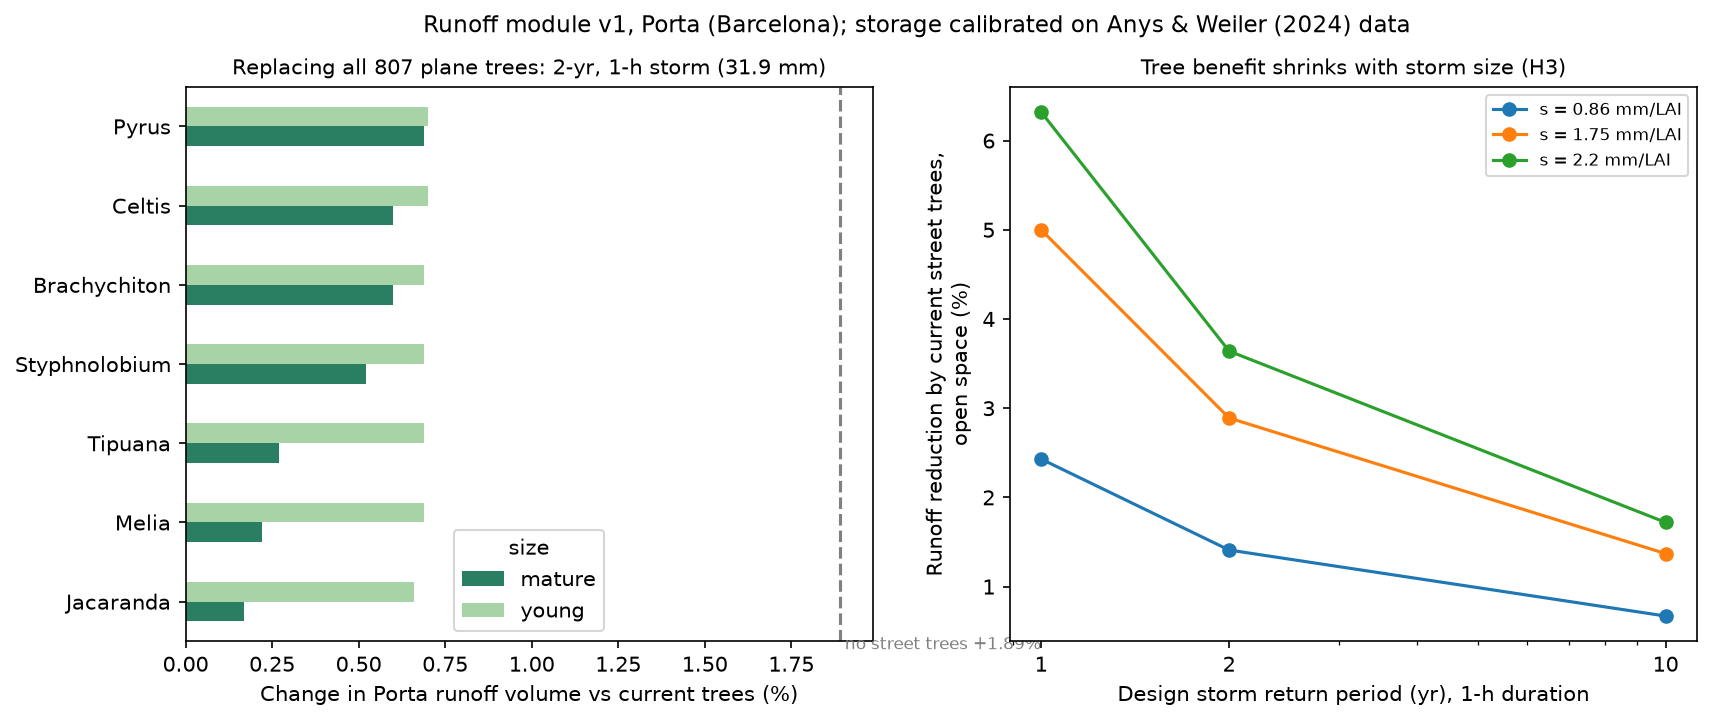
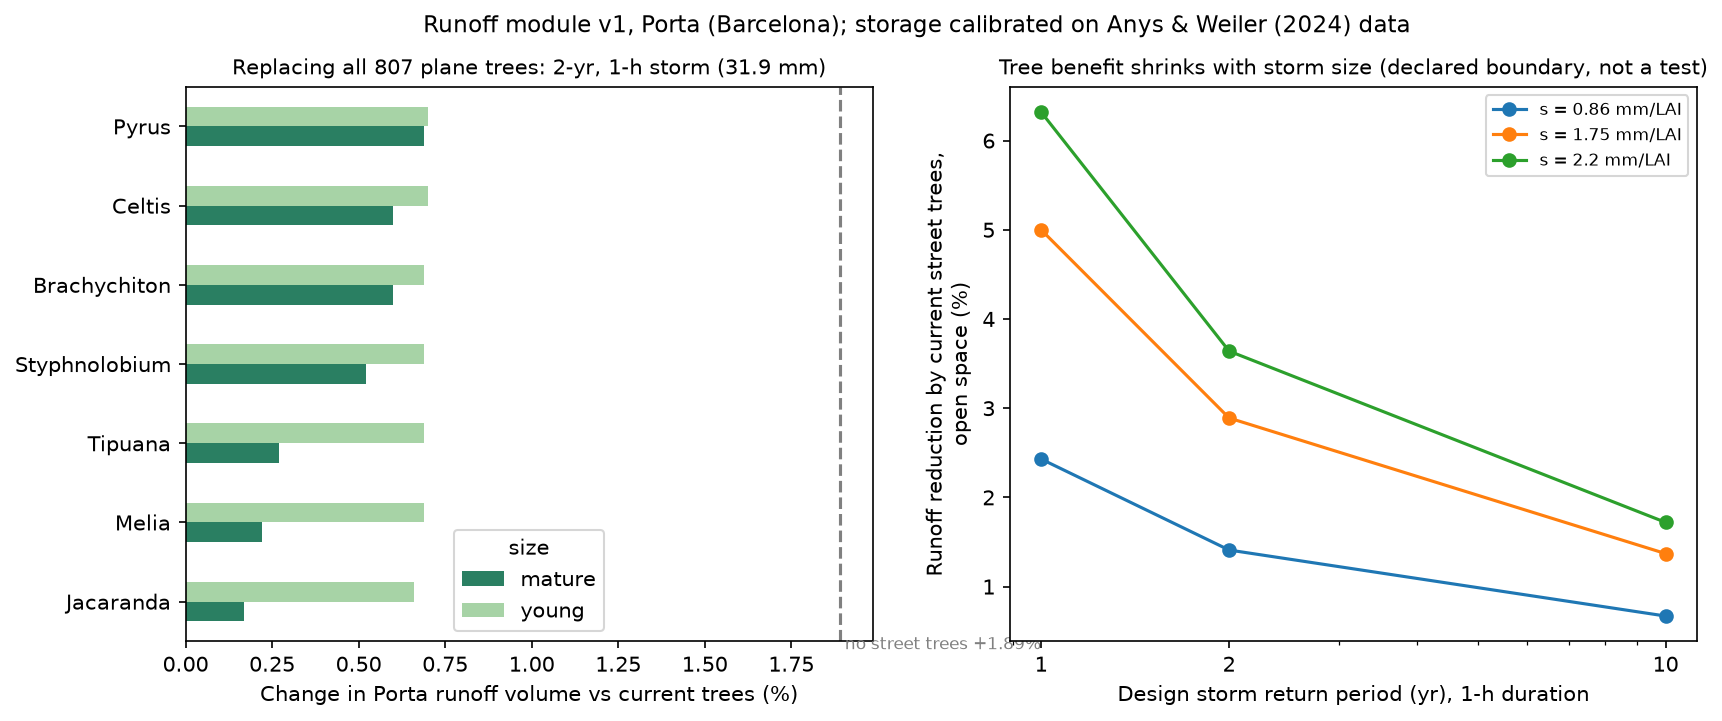
Give slides 4, 14 and 15 their own figures
The three slides that still pointed at a raw plot in notes/figures now
have house-style figures in slides/fig, so the whole deck is one folder
of NN_*.png matching the slide numbers.

Each one references the existing plot relatively (../../notes/figures/)
rather than copying it, so re-running bcn_site_select.py, plot_runoff.py
or plot_tool_v0.py updates the slide too:

- 04_why_porta: the three-panel profile, plus the rule that was fixed
  before the ranking (all three criteria above the 60th percentile,
  non-compensatory), the eligible counts at the three thresholds, the
  ranks among the 72 neighbourhoods with complete data, and why Sant
  Antoni fails the gate despite scoring higher if criteria compensate.
- 14_runoff_result: the two runoff panels, the four numbers with their
  caveats (-1.85% at T=2, the 4%/3.5% benchmark split between Selbig and
  the Coville re-analysis, ~37% lost to young replacements, the
  0.4-4.0% envelope) and the volume-only limit.
- 15_shade_result: the shade trade-off and the winter-sun map, with the
  +16% summer gain, the absence of any winter gain, the one-for-one
  trade in the base run, and the fact that no layout reaches today's
  mature planes.

Also: the runoff plot's right panel was titled "Tree benefit shrinks
with storm size (H3)". H3 was withdrawn yesterday, so the panel now says
"declared boundary, not a test" and the figure is regenerated.

diff --git a/scripts/make_infographics.py b/scripts/make_infographics.py
@@ -634,6 +634,100 @@ def fig_problem():
          "(Porta anomaly); tree master plan via BCNROC, databases/data_inventory_barcelona.md D1 (press figures conflict).")
 
 
+# ---- Slide 4. Why Porta: the screening, not a preference
+def fig_why_porta():
+    """The three-panel profile map (built by bcn_site_select.py) plus the screening rule and the ranks.
+
+    The map is referenced relatively from notes/figures/, so nothing is duplicated."""
+    b = ('<image x="60" y="150" width="1000" height="389" preserveAspectRatio="xMidYMid meet" '
+         'href="../../notes/figures/porta_profile.png"/>')
+    b += t(60, 572, "Pluvial flood hazard  \u00b7  summer surface-heat anomaly  \u00b7  street trees, the 832 planes in green",
+           16, MUTED)
+
+    b += rect(1100, 150, 440, 404, INK, rx=12, op=0.05) + rect(1100, 150, 440, 6, INK, rx=0)
+    b += t(1124, 188, "THE RULE, FIXED FIRST", 16, INK, "bold")
+    b += para(1124, 220, "A neighbourhood qualifies only if flood hazard, surface heat and plane density are "
+                         "all above the city's 60th percentile. Non-compensatory: one strong hazard cannot "
+                         "buy the absence of the other.", 392, 16)[0]
+    yy = 320
+    for lab, val in (("SCREENED", "73 neighbourhoods, 72 with complete data"),
+                     ("ELIGIBLE", "12 at the 50th percentile, 7 at the 60th, 2 at the 70th"),
+                     ("PORTA", "first of the eligible set at every threshold")):
+        b += t(1124, yy, lab, 13, MUTED, "bold")
+        ptxt, hh = para(1124, yy + 24, val, 392, 17)
+        b += ptxt
+        yy += 24 + hh + 10
+    b += para(1124, yy + 4, "#2 overall on the equal-weight score; top 3 in 53% of 2,000 random weightings.",
+              392, 13, fill=MUTED)[0]
+
+    tiles = ((TREE, "832", "plane trees, 994 per km\u00b2 (#15 of 72), inside 2,825 street trees of 53 taxa"),
+             (RAIN, "#13", "flood hazard: share of area with the index \u2265 40 (Barcelona Regional)"),
+             (HEAT, "#11", "surface heat, +1.36 \u00b0C above the city median \u00b7 #12 heat vulnerability, 91% of the area in the top class"),
+             (INK, "7 of 7", "candidate species already grow here: the six the city names, plus Styphnolobium"))
+    for i, (col, big, small) in enumerate(tiles):
+        x = 60 + i * 375
+        b += rect(x, 616, 355, 150, col, rx=12, op=0.08) + rect(x, 616, 355, 6, col, rx=0)
+        b += t(x + 20, 676, big, 38, col, "bold")
+        b += para(x + 20, 706, small, 315, 15, fill=INK)[0]
+
+    b += para(60, 796, "Why not Sant Antoni, which scores higher if you let the criteria compensate: it is #1 for "
+              "flood hazard but #38 for surface heat \u2014 below the city median \u2014 so it fails the both-hazards "
+              "gate. It stays as the flood-dominant contrast site.", 1480, 17, fill=MUTED)[0]
+    save("04_why_porta", "Porta, Nou Barris: both hazards, and the planes to replace",
+         "0.84 km\u00b2 \u00b7 chosen by a rule written before the data was ranked", b,
+         "notes/site_selection.md sections 2-4; scripts/bcn_site_screening.py, bcn_heat_check.py, bcn_site_select.py; "
+         "databases/barcelona/site_selection.csv. Map: notes/figures/porta_profile.png (flood index via the Barcelona "
+         "Resilience Atlas; Landsat 8/9 summer LST anomaly, 31 scenes 2022-2025; arbrat-viari, 1 Oct 2026).")
+
+
+# ---- Slides 14 and 15. The two results, around the plots the modules already produce
+def result_slide(name, title, subtitle, plot, tiles, caveat, source):
+    """A result plot from notes/figures (referenced, not copied) over a row of four numbers."""
+    b = (f'<image x="60" y="150" width="1480" height="520" preserveAspectRatio="xMidYMid meet" '
+         f'href="../../notes/figures/{plot}"/>')
+    for i, (col, big, small) in enumerate(tiles):
+        x = 60 + i * 375
+        b += rect(x, 690, 355, 112, col, rx=12, op=0.08) + rect(x, 690, 355, 6, col, rx=0)
+        b += t(x + 20, 736, big, 30, col, "bold")
+        b += para(x + 20, 762, small, 315, 14, fill=INK)[0]
+    b += para(60, 814, caveat, 1480, 15, fill=MUTED)[0]
+    save(name, title, subtitle, b, source)
+
+
+def fig_runoff_result():
+    result_slide(
+        "14_runoff_result", "First result: the runoff module runs",
+        "Porta, 2-year 1-hour design storm (31.9 mm); canopy storage calibrated on 16 trees and 51 storms in Freiburg",
+        "runoff_results_v1.png",
+        ((RAIN, "\u22121.85%", "runoff from the street trees standing today, at T = 2 (\u22122.9% on open ground, i.e. everything but roofs)"),
+         (TREE, "3.5\u20134%", "the field benchmark: 4% measured by removal (Selbig 2021), 3.5% in the calibrated re-analysis (Coville 2022)"),
+         (WARN, "\u2248 37%", "of that benefit lost during the transition: any young replacement gives about +0.7% runoff"),
+         (INK, "0.4\u20134.0%", "the whole effect across s = 0.86\u20132.2 mm per unit LAI and T = 1\u201310 yr")),
+        "Volume only: no sewer, no routing to outlets, no ponding, no peak flow. The benefit falls from 3.16% at "
+        "T = 1 to 0.90% at T = 10 \u2014 arithmetic, because every crown is full at every design storm, which is why "
+        "H3 was withdrawn on 19 Oct and the shrinking benefit is now stated as a boundary of the method.",
+        "notes/methodology.md section 4b; scripts/runoff_model.py, calibrate_interception.py, plot_runoff.py; "
+        "databases/barcelona/runoff_scenarios.csv and runoff_sensitivity_storage.csv; calibration data "
+        "Anys & Weiler 2024 (FreiDok); benchmark Selbig et al. 2021, Coville et al. 2022.")
+
+
+def fig_shade_result():
+    result_slide(
+        "15_shade_result", "First result: the shade trade-off is real",
+        "Tool v0 over the seven candidate species, with the photo-based leaf calendar (re-run 15 Oct)",
+        "tool_v0.png",
+        ((TREE, "+16%", "summer shade, optimised against a random palette \u2014 robust across all 8 sensitivity variants"),
+         (WARN, "no winter gain", "the same layout is about equal or worse in winter shade (\u22120.8 to +7.9%)"),
+         (HEAT, "\u221218% / \u221218%", "beyond the balanced layout, winter shade bought with summer shade: one for one in the base run, 0.6\u20131.0 across variants"),
+         (INK, "\u22127.5%", "even with mature replacement crowns, no layout reaches the planes standing today")),
+        "Shade is the fast proxy, not UTCI: the Ladybug module comes next. Positions are fixed at the 832 plane pits, "
+        "so this compares species composition, not placement \u2014 and the leaf calendar it rests on is photo-based "
+        "evidence for January only.",
+        "shade_sponge/README.md (tool v0 run and its sensitivity table); scripts/sensitivity_tool_v0.py, "
+        "plot_tool_v0.py; databases/barcelona/tool_v0_summary.csv and tool_v0_sensitivity.csv; leaf calendar "
+        "notes/decisions/leaf_state_inat.md.")
+
+
 # ---- Slide 7. Heat evidence, and what the model cannot see
 def fig_heat_evidence():
     def block(x, w, color, head, items):
@@ -824,6 +918,7 @@ if __name__ == "__main__":
     fig_title()               # slide 1
     fig_one_sentence()        # slide 2
     fig_problem()             # slide 3
+    fig_why_porta()           # slide 4
     fig_lit_map()             # slide 5
     fig_runoff_evidence()     # slide 6
     fig_heat_evidence()       # slide 7
@@ -833,6 +928,8 @@ if __name__ == "__main__":
     fig_research_question()   # slide 11
     fig_hypotheses()          # slide 12
     fig_method()              # slide 13
+    fig_runoff_result()       # slide 14
+    fig_shade_result()        # slide 15
     fig_transfer()            # slide 16
     fig_limits_asks()         # slide 17
     fig_tree_system()         # backup B1

diff --git a/scripts/plot_runoff.py b/scripts/plot_runoff.py
@@ -22,7 +22,7 @@ ax[1].set_xscale("log")
 ax[1].set_xticks([1, 2, 10], ["1", "2", "10"])
 ax[1].set_xlabel("Design storm return period (yr), 1-h duration")
 ax[1].set_ylabel("Runoff reduction by current street trees,\nopen space (%)")
-ax[1].set_title("Tree benefit shrinks with storm size (H3)", fontsize=10)
+ax[1].set_title("Tree benefit shrinks with storm size (declared boundary, not a test)", fontsize=10)
 ax[1].legend(fontsize=8)
 fig.suptitle("Runoff module v1, Porta (Barcelona); storage calibrated on Anys & Weiler (2024) data", fontsize=11)
 fig.savefig(ROOT / "notes/figures/runoff_results_v1.png", dpi=150, bbox_inches="tight")

diff --git a/slides/outline_20oct.md b/slides/outline_20oct.md
@@ -2,7 +2,7 @@
 
 **What changed in v3 (19 Oct, evening).** The deck is rebuilt to follow the rhythm of `study/guide.md`: **one idea per slide**, the number first and its caveat in the same breath, and the limits said before the tutor asks. It goes from 10 slides to **17 + 3 backups**. Six new figures were written for it (`02_one_sentence`, `03_problem`, `07_heat_evidence`, `11_research_question`, `12_hypotheses`, `17_limits_asks`); the others are the existing ones, renamed. The two RM-seminar figures stay parked in `slides/seminar_rm/`.
 
-**Figure files = slide numbers.** `slides/fig/NN_*.png` is the figure for slide NN. Slides **4, 14, 15** have no file there on purpose: they use a plot from `notes/figures/`. Slide 1 is a full-bleed photo slide, built from `slides/fig/01_title_photo.webp`. Backups are `B1_*`, `B2_*`. Regenerate everything with `python scripts/make_infographics.py` (run it from `scripts/`).
+**Figure files = slide numbers.** `slides/fig/NN_*.png` is the figure for slide NN. **Every slide now has its figure.** Slide 1 is a full-bleed photo (`slides/fig/01_title_photo.webp`); slides 4, 14 and 15 wrap a plot from `notes/figures/`, referenced relatively, so those plots are not duplicated — re-run their own script and the slide updates with them. Backups are `B1_*`, `B2_*`. Regenerate everything with `python scripts/make_infographics.py` (run it from `scripts/`).
 
 **Length.** Brackets in the headings are the cumulative target at **150 words a minute** (most people present at 140–160).
 - **Full deck, 17 slides:** 1,542 spoken words ≈ 10:17 (11:01 slow, 9:38 brisk).
@@ -44,7 +44,7 @@
 ---
 
 ## 4. Why Porta — CORE [2:14]
-**Figure:** `notes/figures/porta_profile.png` (fallback: `notes/figures/bcn_site_screening.png`).
+**Figure:** `slides/fig/04_why_porta.png` — the three-panel profile (flood hazard, surface heat, the 832 planes in green) plus the screening rule, the ranks and why not Sant Antoni.
 **On slide:** Porta, Nou Barris · 0.84 km² · 73 screened, **first of the eligible set at every threshold** (#2 overall on the equal-weight score; top 3 in 53% of 2,000 random weightings) · ranks among the 72 with complete data: flood #13 · surface heat #11 (+1.36 °C) · heat vulnerability #12 · **832 plane trees** · 2,825 street trees, 53 taxa · the six named replacement species, plus *Styphnolobium*, already grow there.
 
 **Say (105 words):**
@@ -142,7 +142,7 @@
 ---
 
 ## 14. First result: the runoff module runs — CORE [8:12]
-**Figure:** `notes/figures/runoff_results_v1.png`
+**Figure:** `slides/fig/14_runoff_result.png` — the two runoff panels plus the four numbers and the volume-only caveat.
 **On slide:** today's street trees: **−1.85%** runoff at T = 2 (−2.9% on open ground, i.e. everything but roofs) · field benchmark 3.5–4% · young replacements lose **≈ 37%** of that benefit · effect falls 3.16% → 0.90% from T = 1 to T = 10 · calibrated on 16 trees, 51 storms (Freiburg), s = 1.75 mm per unit LAI.
 
 **Say (101 words):**
@@ -151,7 +151,7 @@
 ---
 
 ## 15. First result: shade, and a real trade-off — EXTRA [8:53]
-**Figure:** `notes/figures/tool_v0.png`
+**Figure:** `slides/fig/15_shade_result.png` — the shade trade-off and the winter-sun map, plus the four numbers and the proxy caveat.
 **On slide:** optimised vs random palette: **+16% summer shade**, robust across 8 sensitivity variants — but **no winter gain** (−0.8 to +7.9%: about equal or worse) · beyond the balanced layout a genuine trade-off: **−17.6% winter shade for −18.0% summer shade** in the base run (ratio ~0.6–1.0 across the variants) · **even with mature replacement crowns**, no layout reaches today's planes (balanced: −7.5% summer shade).
 
 **Say (102 words):**
